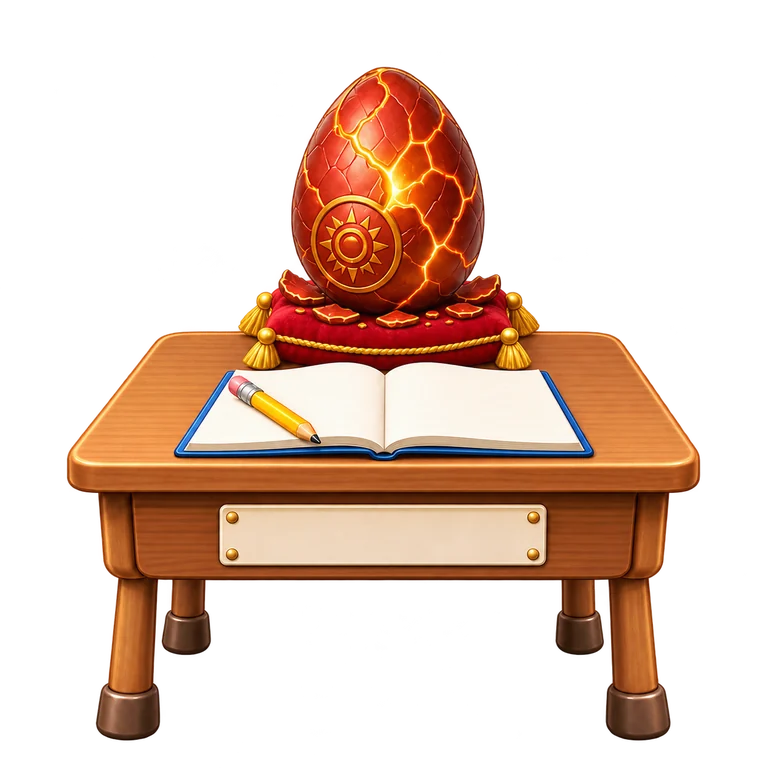
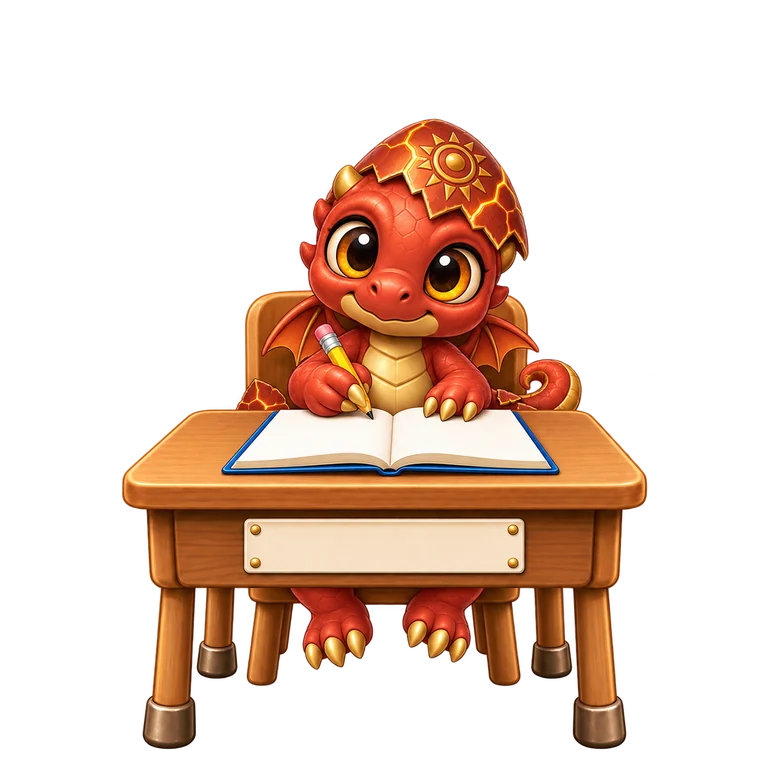
feat(plaza): 달빛룡 책상 그림·2단계 새끼 그림·교실 배경 설치, 교실 사진 칠판·문패 글씨 색, 40마리 시뮬레이션 통과 [skip ci]

diff --git a/src/modules/game/dragon-plaza/plaza.css b/src/modules/game/dragon-plaza/plaza.css
@@ -1,6 +1,26 @@
 /* 우리반 수호룡 광장: 교실 배경 + 칠판 + 책상 줄. 글자는 디자인 토큰(0.9rem 이상)을 쓴다. */
 .plaza { min-height: 100vh; padding: 12px 14px 28px; background: linear-gradient(180deg, #e9f3e3 0%, #f6efe1 38%, #d9b98a 38.1%, #c9a273 100%); color: #3e2e23; }
-.plaza.has-photo { background: var(--classroom) center top / cover no-repeat, #d9b98a; }
+.plaza.has-photo { background: #e0a050 repeating-linear-gradient(0deg, rgba(120,70,20,.06) 0 2px, transparent 2px 58px); }
+/* 교실 사진: 칠판·창문·게시판이 보이는 위쪽. 사진의 칠판 자리에 이번 주 방문자 글씨를 올린다(태블릿·PC). */
+.plaza__hero { position: relative; max-width: 1180px; margin: 0 auto 6px; container-type: inline-size; }
+.plaza.has-photo .plaza__hero { aspect-ratio: 1672 / 600; background: var(--classroom) top center / 100% auto no-repeat; border-radius: 16px 16px 0 0; -webkit-mask-image: linear-gradient(#000 88%, transparent); mask-image: linear-gradient(#000 88%, transparent); }
+.plaza.has-photo .plaza-board { position: absolute; left: 18.6%; top: 22.8%; width: 63.8%; height: 46%; max-width: none; margin: 0; padding: 1.2cqw 2.4cqw; border: 0; border-radius: 0; background: transparent; box-shadow: none; overflow: hidden; }
+.plaza.has-photo .plaza-board h2 { margin: 0 0 .6cqw; font-size: max(.95rem, 2.4cqw); color: #f5f9f3; }
+.plaza.has-photo .plaza-board h2 small { font-size: max(.8rem, 1.5cqw); }
+.plaza.has-photo .plaza-board__visitors strong { font-size: max(.85rem, 1.9cqw); }
+.plaza.has-photo .plaza-board__visitors p { margin: .4cqw 0 0; font-size: max(.85rem, 1.8cqw); }
+.plaza.has-photo .plaza-board__visitors ul { gap: .8cqw; margin-top: .8cqw; }
+.plaza.has-photo .plaza-board__visitors li { padding: .3cqw 1.4cqw; font-size: max(.8rem, 1.8cqw); }
+/* 휴대폰: 사진 칠판이 너무 작아 글씨를 올릴 수 없으니 사진은 장식 띠로 두고 칠판 상자를 따로 보여 준다 */
+@media (max-width: 760px) {
+  .plaza.has-photo .plaza__hero { aspect-ratio: auto; background: none; mask-image: none; -webkit-mask-image: none; }
+  .plaza.has-photo .plaza-board { position: static; width: auto; height: auto; padding: 14px 16px; border: 6px solid #8a5a2c; border-radius: 12px; background: #2f5d46; box-shadow: inset 0 0 18px rgba(0,0,0,.3); overflow: visible; }
+  .plaza.has-photo .plaza-board h2 { font-size: var(--ui-text-lg); }
+  .plaza.has-photo .plaza-board__visitors strong, .plaza.has-photo .plaza-board__visitors p { font-size: var(--ui-text-md); }
+  .plaza.has-photo .plaza-board__visitors li { padding: 4px 12px; font-size: var(--ui-text-md); }
+  .plaza.has-photo { background: #e0a050; }
+  .plaza.has-photo .plaza__hero { margin-bottom: 14px; }
+}
 .plaza__bar { display: flex; align-items: center; justify-content: space-between; gap: 10px; max-width: 1180px; margin: 0 auto 10px; }
 .plaza__bar strong { font-size: var(--ui-text-lg); }
 .plaza__bar button { min-height: 40px; padding: 0 14px; border: 0; border-radius: 12px; background: rgba(255,255,255,.85); color: #3e2e23; font: inherit; font-weight: 800; cursor: pointer; }
@@ -47,3 +67,27 @@
 .plaza-desk.has-art .plaza-plate > span { width: 90%; font-size: clamp(.82rem, 1.5vw, 1.08rem); }
 .plaza-desk.has-art .plaza-plate.is-plain > span { width: 94%; }
 .plaza-desk.has-art .plaza-desk__ring { background: rgba(255,255,255,.28); }
+
+/* 문패마다 글씨 색(공방 아지트 장면과 같은 값) — 어두운 문패에 어두운 글씨가 되지 않게 */
+.plaza-plate[data-plate='oak'] > span { color: #fff0c3; text-shadow: 0 1px 2px #3d2414; }
+.plaza-plate[data-plate='brass'] > span { color: #f8e5ac; text-shadow: 0 1px 2px #1d1815; }
+.plaza-plate[data-plate='crystal'] > span { color: #f5f2ff; text-shadow: 0 1px 2px #29255d; }
+.plaza-plate[data-plate='rune'] > span { color: #d9fbff; text-shadow: 0 1px 2px #123d49; }
+.plaza-plate[data-plate='celestial'] > span { color: #fff1b1; text-shadow: 0 1px 2px #142656; }
+.plaza-plate[data-plate='ember'] > span { color: #ffe0a7; text-shadow: 0 1px 2px #471810; }
+.plaza-plate[data-plate='storm'] > span { color: #eef5ff; text-shadow: 0 1px 2px #182a61; }
+.plaza-plate[data-plate='legend'] > span { color: #5b3b13; text-shadow: 0 1px 2px rgba(255,255,255,.4); }
+.plaza-plate[data-plate='sunny-garden'] > span { color: #4f4a20; text-shadow: 0 1px 2px rgba(255,255,255,.45); }
+.plaza-plate[data-plate='wave-harbor'] > span { color: #285768; text-shadow: 0 1px 2px rgba(255,255,255,.45); }
+.plaza-plate[data-plate='dreamlight-library'] > span { color: #574270; text-shadow: 0 1px 2px rgba(255,255,255,.45); }
+
+/* 작은 태블릿(세로 화면)은 사진 칠판이 낮아 글씨를 조금 줄이고 보조 글을 뺀다 */
+@media (min-width: 761px) and (max-width: 900px) {
+  .plaza.has-photo .plaza-board { padding: .8cqw 2cqw; }
+  .plaza.has-photo .plaza-board h2 small { display: none; }
+  .plaza.has-photo .plaza-board h2 { font-size: max(.9rem, 2.2cqw); margin-bottom: .2cqw; }
+  .plaza.has-photo .plaza-board__visitors strong { font-size: max(.82rem, 1.8cqw); }
+  .plaza.has-photo .plaza-board__visitors li { padding: .1cqw 1.2cqw; font-size: max(.8rem, 1.7cqw); }
+  .plaza.has-photo .plaza-board__visitors ul { margin-top: .4cqw; }
+  .plaza-desk.has-art .plaza-plate { width: 74%; }
+}

diff --git a/src/dev/DragonPlazaPreview.jsx b/src/dev/DragonPlazaPreview.jsx
@@ -7,7 +7,15 @@ const PLATES = ['nameplate-sunny-garden', 'nameplate-brass', 'nameplate-ember', 
 const NAMES = ['김도윤', '이서연', '박하준', '최지우', '정민재', '한수아', '윤지호', '강예은', '조은우', '임하린', '송다온', '오세아']
 const CHARS = [0, 600, 1500, 3200, 6000, 12000, 22000, 35000, 52000, 80000, 120000, 200000]
 
-const classmates = NAMES.map((name, index) => ({
+// `&plaza=40` — 네 종류 × 10단계 40마리가 모두 앉은 교실(그림이 전부 뜨는지 시험)
+const FULL = typeof window !== 'undefined' && new URLSearchParams(window.location.search).get('plaza') === '40'
+const SPECIES_ORDER = ['star', 'forest', 'ember', 'moon']
+const FULL_CLASSMATES = SPECIES_ORDER.flatMap((species, row) => Array.from({ length: 10 }, (_, index) => ({
+  id: `full-${species}-${index + 1}`, name: `${['별', '숲', '노', '달'].at(row)}${index + 1}`,
+  pet_data: { species, level: index + 1, _testWriterLevel: index + 1, equippedDecor: { wallpaper: FRAMES.at((row * 10 + index) % FRAMES.length), nameplate: PLATES.at((row * 10 + index) % PLATES.length) || undefined } },
+  writer_total_chars: [0, 600, 1500, 3200, 6000, 12000, 22000, 35000, 52000, 80000].at(index) * 1, writer_completed_posts: index * 4
+})))
+const classmates = FULL ? FULL_CLASSMATES : NAMES.map((name, index) => ({
   id: `friend-${index + 1}`, name,
   pet_data: { species: SPECIES.at(index % 4), level: index + 1, equippedDecor: { wallpaper: FRAMES.at(index), nameplate: PLATES.at(index) || undefined } },
   writer_total_chars: CHARS.at(index), writer_completed_posts: index * 2
@@ -17,7 +25,7 @@ const now = Date.now()
 const api = {
   loadClassmates: async () => classmates,
   loadMe: async () => me,
-  loadFeed: async () => [
+  loadFeed: async () => FULL ? [{ id: 'post-full', student_id: 'full-ember-7', title: '새 글 시험', feed_published_at: new Date(now - 3600000).toISOString() }] : [
     { id: 'post-1', student_id: 'friend-3', title: '비 오는 날의 운동장', feed_published_at: new Date(now - 3600000).toISOString() },
     { id: 'post-2', student_id: 'friend-7', title: '우리 동네 작은 숲', feed_published_at: new Date(now - 86400000).toISOString() },
     { id: 'post-3', student_id: 'friend-9', title: '아주 오래된 글', feed_published_at: new Date(now - 30 * 86400000).toISOString() }

diff --git a/src/modules/game/dragon-plaza/DragonPlazaEntry.jsx b/src/modules/game/dragon-plaza/DragonPlazaEntry.jsx
@@ -9,8 +9,11 @@ import './plaza.css';
 const FriendProfileShell = lazy(() => import('../../community/friends-hideout/profile/FriendProfileShell'));
 
 /** 칠판: 우리 반 이름 줄과 "이번 주 내 아지트에 놀러 온 친구" 명단(누군가 보고 있다는 신호, 횟수·순위 없음). */
+const MAX_VISITOR_NAMES = 8;
 function Chalkboard({ seatCount, visitors }) {
     const info = describeVisitors(visitors);
+    const shown = info.empty ? [] : info.names.slice(0, MAX_VISITOR_NAMES);
+    const more = info.empty ? 0 : info.names.length - shown.length;
     return (
         <section className="plaza-board" aria-label="칠판">
             <h2>우리반 수호룡 광장 <small>{seatCount}명이 앉아 있어요</small></h2>
@@ -18,7 +21,7 @@ function Chalkboard({ seatCount, visitors }) {
                 <strong>{info.title}</strong>
                 {info.empty
                     ? <p>{info.text}</p>
-                    : <ul>{info.names.map((visitorName) => <li key={visitorName}>{visitorName}</li>)}</ul>}
+                    : <ul>{shown.map((visitorName) => <li key={visitorName}>{visitorName}</li>)}{more > 0 && <li>외 {more}명</li>}</ul>}
             </div>
         </section>
     );
@@ -54,7 +57,7 @@ export default function DragonPlazaEntry({ studentSession, onBack, onNavigate, a
 
             {seats.length > 0 && (
                 <>
-                    <Chalkboard seatCount={seats.length} visitors={visitors} />
+                    <div className="plaza__hero"><Chalkboard seatCount={seats.length} visitors={visitors} /></div>
                     <div className="plaza__grid" role="list" aria-label="교실 자리">
                         {seats.map((seat) => (
                             <div role="listitem" key={seat.id}>

diff --git a/src/modules/game/dragon-plaza/PlazaDesk.jsx b/src/modules/game/dragon-plaza/PlazaDesk.jsx
@@ -30,7 +30,7 @@ export default function PlazaDesk({ seat, hasDeskArt, newPost, onOpen, onOpenNew
                             <span className="plaza-desk__front" aria-hidden="true" />
                         </>
                     )}
-                <span className={`plaza-plate${nameplate ? '' : ' is-plain'}`} style={plateStyle}>
+                <span className={`plaza-plate${nameplate ? '' : ' is-plain'}`} data-plate={nameplate?.preview || 'plain'} style={plateStyle}>
                     {nameplate && <img src={nameplate.image} alt="" loading="lazy" decoding="async" draggable="false" />}
                     <span>{name}</span>
                 </span>

diff --git a/WORKLOG.md b/WORKLOG.md
@@ -28,6 +28,12 @@
 - **결과/검증**: 친구 목록 RPC(`get_student_hideout_directory`)가 `pet_data`(종류·단계·장착 장식)를 이미 주므로 새 RPC 없이 교실을 그릴 수 있음을 확인. 포인트 흐름 조사(30일: 글쓰기 보상 54만P가 대부분, 쓴 포인트는 공방 구입 17.6만P가 전부, 학생 중앙값 100P).
 - **남은 것 / 다음**: OI-045(`진행` 대기).
 
+## 2026-10-24 — 수호룡 광장 그림 40장·교실 배경을 GPT(Codex)로 만들어 설치 (Claude)
+- **한 일**: 선생님 요청("지피티에게 만들어 달라고 하고 전체 구성을 정리한 뒤 시뮬레이션")으로 Codex 의 이미지 생성 도구에 기존 드래곤 그림과 책상 기준 그림을 첨부해 책상에 앉은 수호룡 4종×10단계(1단계=책상 위 알, 2단계=알껍데기를 쓴 새끼로 다시 생성, 3~10단계=자라는 모습)와 교실 배경 1장을 만들고, 규격 검사(정사각형·투명·가장자리 안 닿음)·webp 변환(768px)·설치. 화면: 한 줄 5자리(휴대폰 3)·큰 카드·교실 사진 위 칠판 글씨·문패별 글씨 색(어두운 문패에 밝은 글씨)·이름표를 책상 앞면 자리에.
+- **변경**: `public/assets/dragons/desk/*`(40장)·`public/assets/class-room/classroom-day.webp`·`plaza.css`·`PlazaDesk.jsx`·`DragonPlazaEntry.jsx`·개발실 `plaza=40`·테스트·README·OI-045. 그림 한 장이 Codex 5시간 사용량 약 1%(총 약 45%).
+- **결과/검증**: 시뮬레이션(휴대폰 390·작은 태블릿 768·태블릿 1024·PC 1500): 41자리(40+나)·앉은 그림 41/41·임시 그림 0·깨진 그림 0·가로 넘침 없음·이름 잘림 0·칠판 글씨 잘림 없음·새 글 1개→누르면 `friends_hideout`+글 이동·읽으면 표시 사라짐·친구 자리 누르면 아지트 창 열림→닫으면 교실 그대로·내 자리 비활성. 테스트·eslint 통과.
+- **남은 것 / 다음**: OI-045(선택 개선: 2단계 기능·인접 단계 구분).
+
 ## 2026-10-24 — 우리반 수호룡 광장 1단계 구현 (Claude)
 - **한 일**: 선생님 확정 사양(이름 `우리반 수호룡 광장`, 놀이터 `나의 작가 수호룡` 아래, 학급 설정 기본 켜짐, 학급 학생 수만큼 자리·단계별 드래곤·책상 이름표(문패)·프레임 빛 테두리, 자리를 누르면 친구 아지트, 칠판에 이번 주 내 아지트 방문자, 새 글 표시→글로 이동, 친구 아지트를 **어디서 열든** 방문 기록)대로 모듈 `dragon-plaza` 작성. 방문 기록은 `FriendProfileShell` 한 곳에서 남겨 광장·`친구 아지트` 목록 모두 기록. 새 글은 DB 없이 이 기기의 읽은 기록으로 판단(한계: 기기를 바꾸면 다시 새 글).
 - **변경**: `src/modules/game/dragon-plaza/*`·`20261413_dragon_plaza_visits.sql`(표 `hideout_visits`·함수 `record_hideout_visit_v1`·`get_my_hideout_visitors_v1`·기본 켜짐)·`FriendProfileShell.jsx`·`StudentGameModuleHost.jsx`·`StudentDashboard.jsx`·`registry.js`·도움말·활용 안내서·개발실 `DragonPlazaPreview`·테스트·FEATURE_MAP v1.26.43·OPEN_ITEMS OI-045·TECH_GLOSSARY 대기열. **운영 DB 미적용.**

diff --git a/docs/OPEN_ITEMS.md b/docs/OPEN_ITEMS.md
@@ -39,4 +39,4 @@
 | OI-042 | 운영 | **적용 대기 DB 1건(선생님 `적용해` 필요)**: `20261410_vocab_tower_coins.sql` — 어휘의 탑 코인(70% 이상 한 판 1개·하루 3개·날이 지나도 남음) + 인형뽑기에서 사용. 적용 순서: `적용해`→앱 배포→(선택) 공지. 적용 전에는 새 화면 코드가 `tower_coins_left` 를 못 받아 0개로 보임(안전). 제외: 이미 끝난 판은 소급 지급 없음 | WORKLOG 2026-10-24 어휘의 탑 코인 | 2026-10-24 |
 | OI-043 | 운영 | **적용 대기 DB 1건(선생님 `적용해` 필요)**: `20261411_vocab_tower_coin_limit.sql` — 학급별 하루 어휘의 탑 코인 한도(`classes.vocab_tower_coin_daily_limit`, 처음 3)·연습 결과 창 값(`finish_my_vocab_tower_v2_practice_v1` 에 코인 여부·오늘 수·한도·까닭 추가)·트리거·인형뽑기 컨텍스트. 적용 순서: `적용해`→앱 배포. 적용 전에 새 화면이 먼저 나가면 한도 저장이 `열 없음` 오류가 나므로 순서를 지킨다 | WORKLOG 2026-10-24 어휘의 탑 코인 한도 | 2026-10-24 |
 | OI-044 | 운영 | **적용 대기 DB 1건(선생님 `적용해` 필요)**: `20261412_dragon_decor_set_purchase.sql` — 아지트 공방 세트 한 번에 구입(`buy_my_dragon_decor_set_v1`, 기존 단품 구입 함수를 한 거래로 묶음·가진 것은 건너뜀·하나라도 못 사면 전부 취소). 적용 순서: `적용해`→앱 배포. 앱이 먼저 나가면 세트 구입 단추가 서버 함수를 못 찾아 `세트를 사지 못했어요` 안내가 뜬다(포인트 그대로) | WORKLOG 2026-10-24 공방 세트 | 2026-10-24 |
-| OI-045 | 후속 | **우리반 수호룡 광장** 1단계 구현·커밋 끝(계획 [CLASS_DRAGON_ROOM_PLAN](CLASS_DRAGON_ROOM_PLAN.md)). 남은 일: ① **DB `20261413` 적용 대기(선생님 `적용해`)** — 방문 기록 표·함수 둘·`dragon-plaza` 기본 켜짐(목록 저장 학급에 추가) → 앱 배포 ② GPT 그림 — 앉은 수호룡 40장+교실 1장([ART_BRIEF](CLASS_DRAGON_ROOM_ART_BRIEF.md)), 넣으면 자동 반영 ③ 2단계(선택): 책상 소품·스탬프·칠판 문구, 교사 쓰임은 구현 뒤 논의 | WORKLOG 2026-10-24 수호룡 광장 | 2026-10-24 |
+| OI-045 | 후속 | **우리반 수호룡 광장** — 1단계·`20261413` 적용·배포·**GPT 그림 40장+교실 배경 설치까지 끝**(2026-10-24, 시뮬레이션 4개 화면 크기 전부 통과). 남은 일(선택): ① 2단계 — 책상 위 소품·방문 스탬프·칠판 문구 ② 인접 단계(예: 6~8)가 더 구분되게 그림 일부 다시 만들기 ③ 교사 쓰임은 구현 뒤 선생님과 논의. 계획 [CLASS_DRAGON_ROOM_PLAN](CLASS_DRAGON_ROOM_PLAN.md) | WORKLOG 2026-10-24 수호룡 광장 그림 | 2026-10-24 |

diff --git a/src/modules/game/dragon-plaza/README.md b/src/modules/game/dragon-plaza/README.md
@@ -12,3 +12,11 @@
 - 친구 자리를 누르면 기존 `FriendProfileShell` 이 열린다. 그 안에서 **방문 기록**(`record_hideout_visit_v1`, `20261413`)이 남는다 — 광장이든 `친구 아지트` 목록이든 같은 곳.
 - 교실에서는 순위·점수·포인트 보유량을 보여 주지 않는다.
 - 개발실: `?dev-lab=dragon-plaza`.
+
+## 그림 (2026-10-24, GPT 이미지 생성으로 만듦)
+- 앉은 수호룡 4종 × 10단계 40장(`public/assets/dragons/desk/{종류}/level-{단계}.webp`, 768×768, 투명 배경)과 교실 배경(`public/assets/class-room/classroom-day.webp`, 1600×900)이 들어 있다.
+  1단계는 책상 위 쿠션에 놓인 알, 2단계는 알껍데기를 쓴 갓 부화한 새끼, 3단계 이후는 뿔·날개·장식이 자라는 모습. 책상·의자·이름표 자리는 모든 그림에서 같은 위치라 코드가 이름·문패를 같은 자리에 올린다.
+- 다시 만들 때: Codex(`codex exec`, 이미지 생성 도구)에 기존 그림(`public/assets/dragons/v2/…`)과 책상 기준 그림을 `-i` 로 첨부해 한 종류씩 만든다(의뢰서 `docs/CLASS_DRAGON_ROOM_ART_BRIEF.md`). 그림 한 장이 Codex 5시간 사용량의 1% 안팎.
+- 문패마다 글씨 색이 달라(어두운 문패에는 밝은 글씨) `plaza.css` 의 `data-plate` 규칙이 공방 아지트 장면과 같은 값을 쓴다.
+- 칠판 글씨는 교실 사진의 칠판 자리 위에 올린다(태블릿·PC, `cqw` 단위). 휴대폰은 칠판 상자를 따로 보여 준다.
+- 시뮬레이션: `?dev-lab=dragon-plaza&plaza=40` 은 4종×10단계 40마리가 모두 앉은 교실이다.

diff --git a/SESSION_CONTEXT.md b/SESSION_CONTEXT.md
@@ -81,11 +81,11 @@
 
 - 2026-10-24 — 우리 반 드래곤 교실 계획 정리 (Claude)
   - 남은 것: OI-045(`진행` 대기).
+- 2026-10-24 — 수호룡 광장 그림 40장·교실 배경을 GPT(Codex)로 만들어 설치 (Claude)
+  - 남은 것: OI-045(선택 개선: 2단계 기능·인접 단계 구분).
 - 2026-10-24 — 우리반 수호룡 광장 1단계 구현 (Claude)
   - 남은 것: OI-045 — `적용해` → 배포, GPT 그림 넣기(자동 반영).
 - 2026-10-24 — 아지트 공방: 못 사는 까닭 안내와 세트 한 번에 사기 (Claude)
   - 남은 것: OI-044 — `적용해` → 앱 배포.
 - 2026-10-24 — 어휘의 탑 정복 완료를 덱마스터 도전 자격과 일치 (Claude)
   - 남은 것: OI-043(20261411 적용 대기).
-- 2026-10-24 — 어휘의 탑 코인 보완: 결과 창 안내·학급별 하루 한도 (Claude)
-  - 남은 것: OI-043 — `적용해` → 앱 배포.

diff --git a/docs/CLASS_DRAGON_ROOM_ART_BRIEF.md b/docs/CLASS_DRAGON_ROOM_ART_BRIEF.md
@@ -1,6 +1,7 @@
 # 우리반 드래곤 광장 — GPT 그림 의뢰서
 
-> 계획: [CLASS_DRAGON_ROOM_PLAN.md](CLASS_DRAGON_ROOM_PLAN.md). 만드는 사람: 선생님(ChatGPT 이미지 생성). 이 파일은 **프롬프트 틀과 파일 규칙**이다.
+> **2026-10-24 완료**: Codex(GPT 이미지 생성)로 40장+교실 1장을 만들어 설치했다. 아래는 다시 만들 때 쓰는 규칙이다.
+> 계획: [CLASS_DRAGON_ROOM_PLAN.md](CLASS_DRAGON_ROOM_PLAN.md). 만드는 사람: 선생님 또는 Codex. 이 파일은 **프롬프트 틀과 파일 규칙**이다.
 
 ## 1. 공통 규칙
 - 같은 **화풍·색·선 굵기**로 모든 그림을 만든다. **기존 드래곤 그림을 참고 이미지로 첨부**한다(`public/assets/dragons/v2/{종류}/level-{단계}.webp`).
